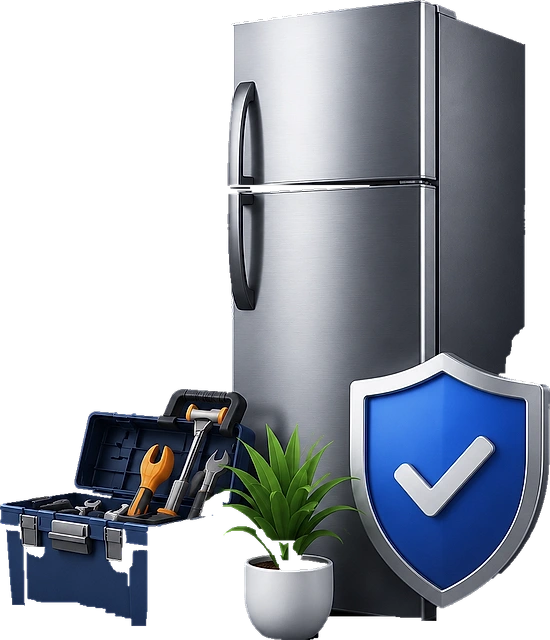
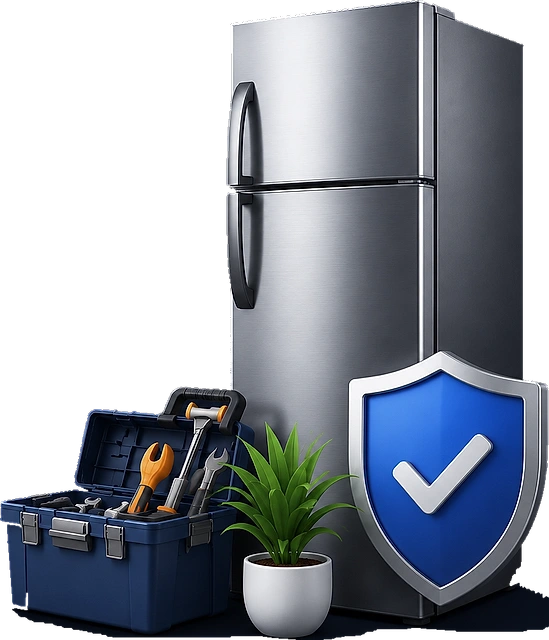
Stop the key-out eating the illustration's feet
The bases really were missing: the flood fill ran at a tolerance of 46,
and the toolbox, pot and shield all sit on dark bottoms that were close
enough to the navy backdrop to be swallowed with it. At 18 the fill stops
at the objects, and their own contact shadow survives — so the CSS
ellipse I'd added to fake one is gone.

Changed region(s): [[0.0, 0.0, 1.0, 1.0], [0.7122, 0.6562, 0.898, 0.8125]]

diff --git a/src/components/site/Contact.tsx b/src/components/site/Contact.tsx
@@ -132,13 +132,6 @@ export function Contact() {
                   aria-hidden
                   className="absolute bottom-4 left-1/2 hidden size-56 -translate-x-1/2 rounded-full bg-royal-bright/25 blur-[70px] dark:block lg:size-64"
                 />
-                {/* The keyed-out backdrop took the contact shadow with it, which
-                    left the toolbox and pot ending mid-air as if cropped. This
-                    puts the ground back under them. */}
-                <span
-                  aria-hidden
-                  className="absolute bottom-1 left-1/2 h-5 w-[78%] -translate-x-1/2 rounded-[50%] bg-ink/20 blur-lg dark:bg-black/45"
-                />
                 {/* eslint-disable-next-line @next/next/no-img-element */}
                 <img
                   src={contactPromiseSrc}
